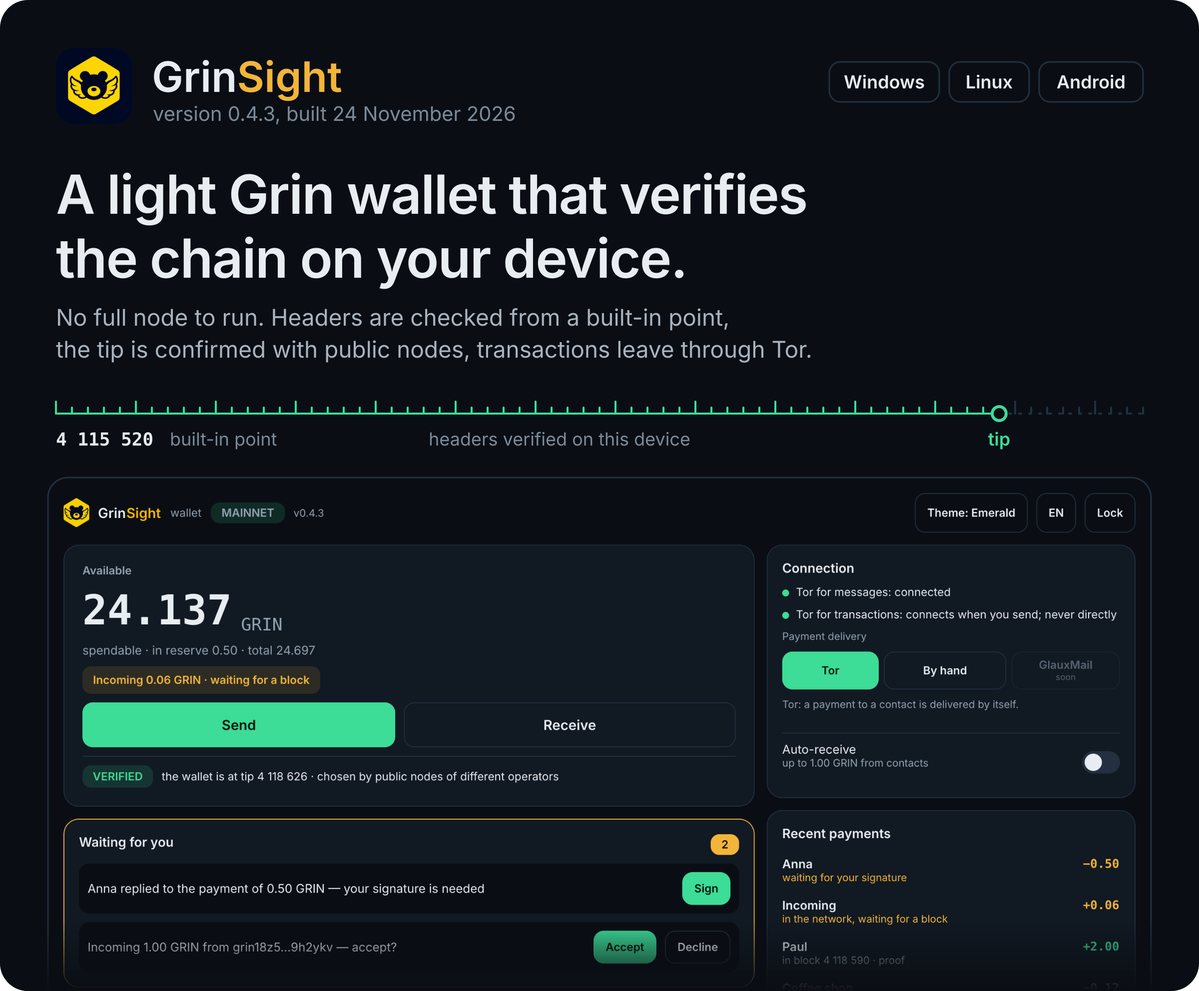
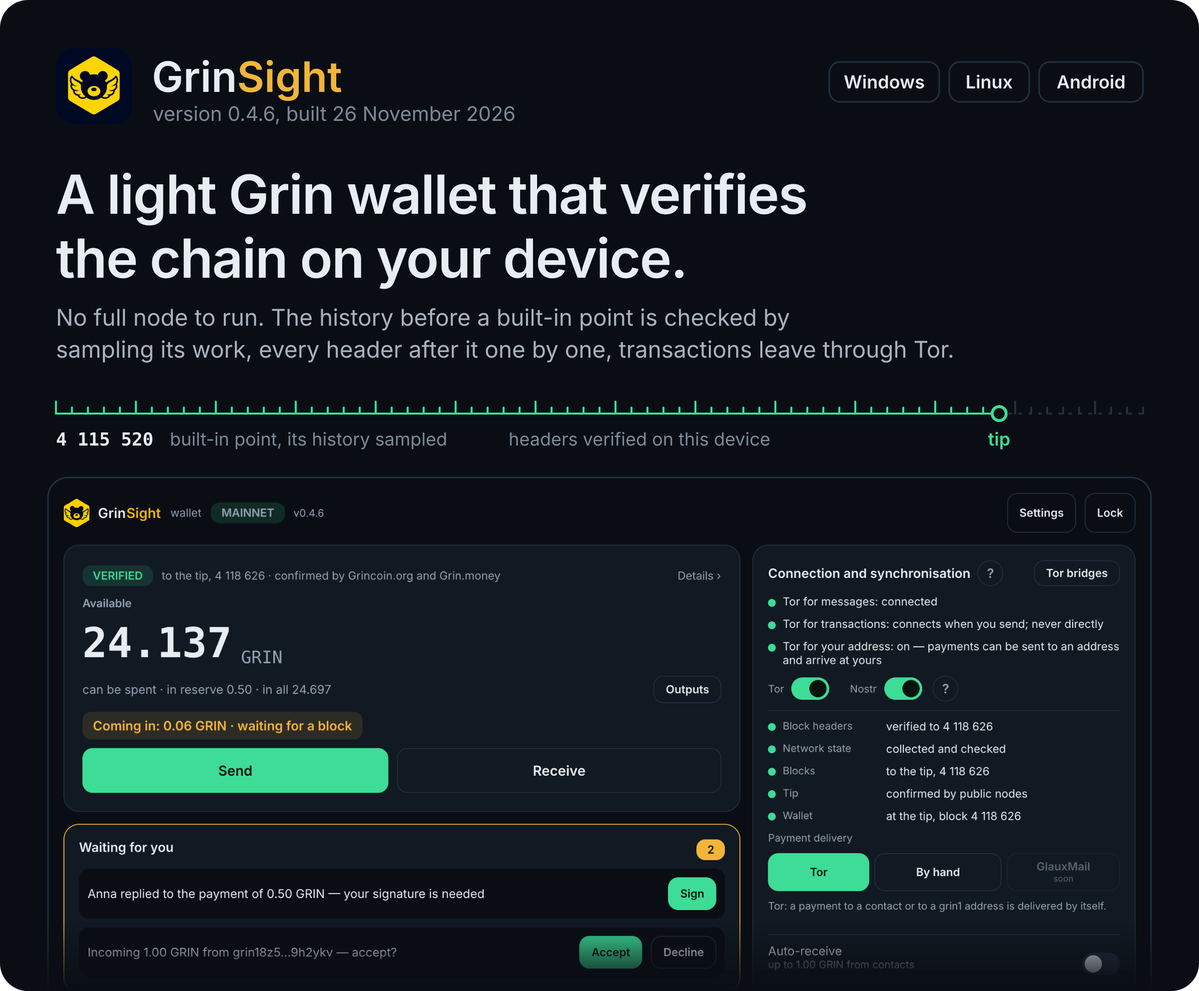
GrinSight 0.4.6: pictures and guides of 0.4.6
The picture at the top of README, the screens, the drawing of the
programs and the picture on the site show the window of 0.4.6. The
guides How it works and Mathematics describe 0.4.6: the history before
the built-in point checked by sampling its work, an own starting point
that keeps that check, outputs, taking a payment back, contacts.

Claude-Session: https://claude.ai/code/session_01P2a4xUSWiGs11LY13tfyYt

diff --git a/site/index.html b/site/index.html
@@ -92,7 +92,7 @@
     <h2>Четыре проверки, прежде чем вы увидите число</h2>
     <p>Если проверка не прошла, кошелёк не показывает баланс вместо неверного.</p>
   </div>
-  <div class="grid4"><div class="step"><div class="n">01</div><h3>Заголовки</h3><p>Каждый заголовок от встроенной точки до вершины проверяется по правилам самой ноды: доказательство работы, сложность, связи. Более тяжёлая ветвь заменяет вершину только при большей суммарной работе.</p></div><div class="step"><div class="n">02</div><h3>Состояние монет</h3><p>Непотраченные выходы собираются из сегментов PIBD на архивной точке нод и сверяются с корнями в проверенном заголовке.</p></div><div class="step"><div class="n">03</div><h3>Каждый блок</h3><p>Блоки от архивной точки до вершины сверяются со своими заголовками, прежде чем их увидит кошелёк.</p></div><div class="step"><div class="n">04</div><h3>Вершина и время</h3><p>Публичные ноды разных операторов отвечают по HTTPS о вершине и времени. Свои выходы кошелёк находит своими ключами; сервер о балансе не спрашивают.</p></div></div>
+  <div class="grid4"><div class="step"><div class="n">01</div><h3>Заголовки</h3><p>История до встроенной точки проверяется выборкой по работе — доказательство едет с программой; каждый заголовок от точки до вершины проверяется по правилам самой ноды: доказательство работы, сложность, связи. Более тяжёлая ветвь заменяет вершину только при большей суммарной работе.</p></div><div class="step"><div class="n">02</div><h3>Состояние монет</h3><p>Непотраченные выходы собираются из сегментов PIBD на архивной точке нод и сверяются с корнями в проверенном заголовке.</p></div><div class="step"><div class="n">03</div><h3>Каждый блок</h3><p>Блоки от архивной точки до вершины сверяются со своими заголовками, прежде чем их увидит кошелёк.</p></div><div class="step"><div class="n">04</div><h3>Вершина и время</h3><p>Публичные ноды разных операторов отвечают по HTTPS о вершине и времени. Свои выходы кошелёк находит своими ключами; сервер о балансе не спрашивают.</p></div></div>
 </section>
 
 <section id="tested" class="wrap">

diff --git a/site/en/index.html b/site/en/index.html
@@ -92,7 +92,7 @@
     <h2>Four checks before you see a number</h2>
     <p>If a check fails, the wallet shows no balance rather than a wrong one.</p>
   </div>
-  <div class="grid4"><div class="step"><div class="n">01</div><h3>Headers</h3><p>Every header from the built-in point to the tip is checked by the node’s own rules: proof of work, difficulty, links. A heavier branch replaces the tip only with more total work.</p></div><div class="step"><div class="n">02</div><h3>Coin state</h3><p>The unspent outputs are collected from PIBD segments at the nodes’ archive point and matched to the roots in a verified header.</p></div><div class="step"><div class="n">03</div><h3>Every block</h3><p>Blocks from the archive point to the tip are checked against their headers before the wallet sees them.</p></div><div class="step"><div class="n">04</div><h3>Tip and time</h3><p>Public nodes of different operators are asked over HTTPS for the tip and the time. Your outputs are found with your own keys; no server is asked for a balance.</p></div></div>
+  <div class="grid4"><div class="step"><div class="n">01</div><h3>Headers</h3><p>The history before the built-in point is checked by sampling its work with a proof shipped in the program; every header from the point to the tip is checked by the node’s own rules: proof of work, difficulty, links. A heavier branch replaces the tip only with more total work.</p></div><div class="step"><div class="n">02</div><h3>Coin state</h3><p>The unspent outputs are collected from PIBD segments at the nodes’ archive point and matched to the roots in a verified header.</p></div><div class="step"><div class="n">03</div><h3>Every block</h3><p>Blocks from the archive point to the tip are checked against their headers before the wallet sees them.</p></div><div class="step"><div class="n">04</div><h3>Tip and time</h3><p>Public nodes of different operators are asked over HTTPS for the tip and the time. Your outputs are found with your own keys; no server is asked for a balance.</p></div></div>
 </section>
 
 <section id="tested" class="wrap">

diff --git a/Documents/MATHEMATICS_RU.md b/Documents/MATHEMATICS_RU.md
@@ -1,6 +1,6 @@
 # Математическое описание GrinSight
 
-GrinSight строит у себя копию той части состояния цепи, которая ему нужна, и сверяет её с обязательствами в заголовках блоков. Текст описывает версию 0.4.3.
+GrinSight строит у себя копию той части состояния цепи, которая ему нужна, и сверяет её с обязательствами в заголовках блоков. Текст описывает версию 0.4.6.
 
 Пусть $H_h$ — заголовок блока на высоте $h$, а $S_h$ — состояние после блока $h$: непотраченные выходы, их range proof и кернелы; по каждому из них в $H_h$ записан корень.
 
@@ -13,6 +13,30 @@ $$
 $$
 
 Эту проверку ничем, вычисленным на устройстве, заменить нельзя. Вместо встроенной точки можно задать свою.
+
+## 1а. История до точки (новое в 0.4.6)
+
+Точка больше не стоит одна: программа несёт доказательство, что за $H_s$ лежит цепь с заявленной работой. Над заголовками $H_0, \ldots, H_{s-1}$ строится дерево сумм работы той же формы, что MMR заголовков: в каждом узле — сумма $\operatorname{work}(H_i)$ под ним, корень $R$ обязуется за всю работу $W$. Зерно берётся из сети, точки, корня и числа проб $m$:
+
+$$
+\sigma = \operatorname{Hash}(\text{сеть},\ \operatorname{hash}(H_s),\ R,\ m)
+$$
+
+Для $j = 1, \ldots, m$ выбирается $x_j = \operatorname{Draw}(\sigma, j) \in [0, W)$ и открывается заголовок $H_{i_j}$, на долю работы которого приходится $x_j$: его путь сумм до $R$, заголовки, которые перед ним читает правило сложности (2 после четвёртого хардфорка, 61 до него), и его доказательство Меркла в MMR заголовков, корень которого записан в $H_s$. При открытии цепи кошелёк проверяет:
+
+$$
+\forall j:\quad \operatorname{Sums}(i_j) \to R,\quad \operatorname{ValidPoW}(H_{i_j}),\quad \operatorname{Difficulty}(H_{i_j}) \text{ следует из его ряда},\quad H_{i_j} \in \operatorname{MMR}(H_s)
+$$
+
+При $m = 420$ это меньше секунды. Если доля $f$ заявленной работы не настоящая, одна честная проба промахнётся мимо неё с вероятностью $1-f$, все — примерно с
+
+$$
+(1-f)^m, \qquad (0{,}98)^{420} \approx 2 \cdot 10^{-4}, \qquad (0{,}95)^{420} \approx 4 \cdot 10^{-10}.
+$$
+
+Это ориентир, а не граница: здесь не учтён подделывающий, который перебирает корни $R$ ради удобного зерна, и цена такого перебора для Grin не посчитана. **420 — запас, а не число, выведенное для названной вероятности ошибки.** Вся история mainnet (4 123 322 заголовка) один раз проверена программой на синхронизированной ноде; само доказательство проверяет только пробы.
+
+Своя точка (делается в «Подробнее») несёт доказательство Меркла встроенной точки под своим корнем. Доказательство встроенной точки тогда остаётся в силе: история до $H_s$ проверена выборкой, а от $H_s$ до вашей точки каждый заголовок проверил ваш кошелёк.
 
 ## 2. Проверка цепи заголовков
 
@@ -91,13 +115,13 @@ $$
 ## Главная связь и границы доверия
 
 $$
-\boxed{\text{стартовая точка} \;\longrightarrow\; \text{проверенные заголовки} \;\longrightarrow\; \text{выбранная вершина} \;\longrightarrow\; \text{проверенное состояние} \;\longrightarrow\; \text{баланс и статус платежа}}
+\boxed{\text{история выборкой} \;\longrightarrow\; \text{стартовая точка} \;\longrightarrow\; \text{проверенные заголовки} \;\longrightarrow\; \text{выбранная вершина} \;\longrightarrow\; \text{проверенное состояние} \;\longrightarrow\; \text{баланс и статус платежа}}
 $$
 
 Что принимается на веру:
 
-- хеш стартовой точки;
+- хеш стартовой точки: его выбирает выпуск; что лежит за ней, проверяется выборкой (раздел 1а), а не заголовок за заголовком;
 - что публичные ноды, которых спрашивают о вершине, не подчинены одной стороне и что сеть позволяет до них дойти;
 - реализация: независимого аудита человеком не было.
 
-Заголовки до стартовой точки не проверяются. Проверка от первого блока в эту версию не входит.
+Заголовки до стартовой точки проверяются выборкой по работе, а не каждый, и число проб — запас, а не выведенная граница. Проверка каждого заголовка от первого блока в эту версию не входит.

diff --git a/Documents/HOW_IT_WORKS_EN.md b/Documents/HOW_IT_WORKS_EN.md
@@ -1,6 +1,6 @@
 # GrinSight — "Revelio for your coins" 🐻
 
-This text describes version 0.4.3.
+This text describes version 0.4.6.
 
 ## What is it?
 
@@ -12,7 +12,7 @@ Five programs start when you open the wallet:
 
 - **the window** — what you see; it holds no keys;
 - **the wallet process** — keeps the keys, signs, writes the journal encrypted with your password;
-- **the chain process** — checks every header from a built-in starting point to the tip, collects the coin state at the nodes' archive point, checks every block after it, asks public nodes of different operators for the tip and the time, and sends transactions through its own Tor;
+- **the chain process** — checks the proof that comes with the program for the history before a built-in starting point (by sampling its work), every header from that point to the tip, collects the coin state at the nodes' archive point, checks every block after it, asks public nodes of different operators for the tip and the time, and sends transactions through its own Tor;
 - **the mailbox** — delivers payments and messages between contacts over Nostr through Tor;
 - **the address process** — announces your `grin1…` address in Tor while the wallet is open, carries payments sent to it and payments you send to another address. It decides nothing: the wallet process does.
 
@@ -28,14 +28,16 @@ If the wallet file is replaced with an older copy of itself, the wallet notices 
 
 1. **Check the download** against `SHA256SUMS.txt`. The files are not signed.
 2. **Create a wallet**, choose a password, write down the 24 words, answer the three words the wallet asks for.
-3. **Wait for "Verified"** under the balance: about 3.5 minutes for a new wallet on mainnet. It is shown only when the wallet is at the tip and can send; before that the mark says "Catching up" or "Searching".
+3. **Wait for "Verified"** above the balance: about 3.5 minutes for a new wallet on mainnet. It is shown only when the wallet is at the tip and can send; before that the mark says "Catching up" or "Searching".
 4. **Receive.** Open *Receive* and copy your address for the sender (or show it as a QR code). A payment sent to it over Tor — from Grim, grin-wallet, Grin++ or GrinSight — arrives by itself and waits for your yes under *Waiting for you*; the sender's wallet waits about 40 seconds. If they send you a Slatepack text instead, paste it there (or take it *From a file*), check the amount and the sender, accept, and send the reply back.
 5. **Send.** Open *Send*, enter the amount and the recipient's `grin1…` address: the payment goes over Tor to the wallet at that address, which must be open, and its reply comes back under *Waiting for you*. Without an address, or with *By hand* chosen: *Make the Slatepack text*, pass it on, paste the reply. Either way the wallet shows what the recipient gets, the fee, the total and the address. Check them and press *Sign and send*.
-6. **Contacts.** Add a contact by their message key; a payment to a contact is delivered over Tor by itself and comes back under *Waiting for you* for your signature. Choose *By hand* on the main screen if you always want to pass the text yourself.
+6. **Contacts.** Add a contact by their message key; a payment to a contact is delivered over Tor by itself and comes back under *Waiting for you* for your signature. Choose *By hand* on the main screen if you always want to pass the text yourself. The contacts stand to the left of the conversation; the chosen one has signs to send GRIN, change the details and delete. Compare the six-word check code with them (the same on both sides) to mark them as checked.
 7. **Pay an invoice.** *Receive* → paste the invoice text → check the amount and the fee → *Sign the payment*.
-8. **Cancel.** Every prepared payment under *Waiting for you* can be cancelled; the money returns from the reserve.
+8. **Cancel or take back.** A prepared payment is cancelled from its line; the money returns from the reserve. A signed payment that is not in a block yet can be taken back: a second transaction of the same inputs to yourself, and one of the two gets into a block.
 9. **Where Tor is blocked.** *Options* on the login screen → *How Tor is reached* → *Bridges*, or *Tor bridges* in the Connection card: the built-in obfs4 and Snowflake bridges of Tor Browser, or your own. With bridges chosen the wallet reaches Tor through them only.
 10. **Restore.** *Restore* on the first screen → the 24 words → a new password. After the wallet reaches the tip, the search for old outputs runs for a few more minutes; the line under the balance says so, and the sum can grow until it ends.
+11. **Outputs.** *Outputs* next to the balance: mark outputs not to be spent, pay with exactly the outputs you choose, collect them into one.
+12. **Your own starting point.** *Details* → *Make my own starting point*: the next unlock starts from it, and it keeps the proof of the built-in point. On another device of yours it is pasted under *Options* → *Own nodes and a point from another device*.
 
 ## Where the wallet is kept
 
@@ -50,4 +52,4 @@ Uninstalling or updating the program does not touch the wallet.
 
 ## Status
 
-A research wallet. Five review rounds by an AI reviewer, no audit by a human. Nothing is signed. Android was run on an emulator only; the macOS image was built and its window scenario run on GitHub's machine, not started on a real Mac. Payments over Tor were exchanged with Grim 0.3.7 on mainnet in both directions; other wallets were not tried. Details: [release notes](RELEASE_NOTES_EN.md), [mathematics and trust boundaries](MATHEMATICS_EN.md).
+A research wallet. Six review rounds by an AI reviewer (0.4.3–0.4.5); what was added in 0.4.6 has not been reviewed; no audit by a human. Nothing is signed. Android was run on an emulator only; the macOS image was built and its window scenario run on GitHub's machine, not started on a real Mac. Payments over Tor were exchanged with Grim 0.3.7 on mainnet in both directions by 0.4.3; other wallets were not tried, and 0.4.6 has not paid on a live network yet. Details: [release notes](RELEASE_NOTES_EN.md), [mathematics and trust boundaries](MATHEMATICS_EN.md).

diff --git a/Documents/MATHEMATICS_EN.md b/Documents/MATHEMATICS_EN.md
@@ -1,6 +1,6 @@
 # Mathematical Explanation of GrinSight
 
-GrinSight builds a local copy of the part of the chain state it needs and verifies it against the commitments in block headers. This text describes version 0.4.3.
+GrinSight builds a local copy of the part of the chain state it needs and verifies it against the commitments in block headers. This text describes version 0.4.6.
 
 Let $H_h$ denote the block header at height $h$, and $S_h$ the state after block $h$: the unspent outputs, their range proofs and the kernels, each committed to by a root in $H_h$.
 
@@ -13,6 +13,30 @@ $$
 $$
 
 This check cannot be replaced by anything computed on the device. You can put a point of your own instead of the built-in one.
+
+## 1a. The History Before the Point (new in 0.4.6)
+
+The point no longer stands alone: the program carries a proof that a chain with the claimed work lies behind $H_s$. Over the headers $H_0, \ldots, H_{s-1}$ a tree of work sums is built in the shape of the header MMR: every node holds the sum of $\operatorname{work}(H_i)$ under it, and its root $R$ commits to the total work $W$. A seed is taken from the network, the point, the root and the number of samples $m$:
+
+$$
+\sigma = \operatorname{Hash}(\text{net},\ \operatorname{hash}(H_s),\ R,\ m)
+$$
+
+For $j = 1, \ldots, m$ a point $x_j = \operatorname{Draw}(\sigma, j) \in [0, W)$ is drawn, and the header $H_{i_j}$ whose share of the work covers $x_j$ is opened: its path of sums up to $R$, the headers the difficulty rule reads before it (2 after the fourth hard fork, 61 before it), and its Merkle proof in the header MMR whose root $H_s$ commits to. The wallet checks, when the chain is opened:
+
+$$
+\forall j:\quad \operatorname{Sums}(i_j) \to R,\quad \operatorname{ValidPoW}(H_{i_j}),\quad \operatorname{Difficulty}(H_{i_j}) \text{ follows from its run},\quad H_{i_j} \in \operatorname{MMR}(H_s)
+$$
+
+With $m = 420$ this takes under a second. If a share $f$ of the claimed work were not real, one honest draw would miss it with probability $1-f$, all of them with about
+
+$$
+(1-f)^m, \qquad (0.98)^{420} \approx 2 \cdot 10^{-4}, \qquad (0.95)^{420} \approx 4 \cdot 10^{-10}.
+$$
+
+This is a guide, not a bound: it does not count a forger who tries many roots $R$ to get a good seed, and the cost of that is not worked out for Grin. **The number 420 is a margin, not derived for a stated error.** The whole history of mainnet (4,123,322 headers) was checked by the program once on a synced node; the proof itself checks samples only.
+
+A point of your own (made in *Details*) carries the Merkle proof of the built-in point under its own root. The proof of the built-in point then still holds: the history up to $H_s$ is sampled, and from $H_s$ to your point your wallet checked every header.
 
 ## 2. Verifying the Header Chain
 
@@ -91,13 +115,13 @@ The wallet's journal can be replaced with an older copy of itself. A small recor
 ## Main Relationship and Trust Boundaries
 
 $$
-\boxed{\text{starting point} \;\longrightarrow\; \text{verified headers} \;\longrightarrow\; \text{selected tip} \;\longrightarrow\; \text{verified state} \;\longrightarrow\; \text{balance and payment status}}
+\boxed{\text{sampled history} \;\longrightarrow\; \text{starting point} \;\longrightarrow\; \text{verified headers} \;\longrightarrow\; \text{selected tip} \;\longrightarrow\; \text{verified state} \;\longrightarrow\; \text{balance and payment status}}
 $$
 
 What is taken on trust:
 
-- the hash of the starting point;
+- the hash of the starting point: the release chooses it; what lies behind it is checked by sampling (section 1a), not header by header;
 - that the public nodes asked about the tip are not all controlled by one party, and that the network lets the wallet reach them;
 - the implementation: there has been no independent audit by a human.
 
-Headers before the starting point are not checked. Verification from the first block is not part of this version.
+Headers before the starting point are checked by sampling their work, not one by one, and the number of samples is a margin, not a derived bound. Checking every header from the first block is not part of this version.

diff --git a/README.ru.md b/README.ru.md
@@ -1,7 +1,7 @@
 <p align="center"><a href="README.md">English</a> · <b>Русский</b> · <a href="https://danilagrinrus.github.io/GrinSight/">Сайт</a></p>
 
 <p align="center">
-  <img src="assets/readme/hero.png" width="100%" alt="GrinSight (на картинке окно версии 0.4.3): лёгкий кошелёк Grin, который проверяет цепь на вашем устройстве. Под заголовком — главное окно с образцовыми значениями: баланс, проверенная вершина, платежи, ждущие подписи.">
+  <img src="assets/readme/hero.png" width="100%" alt="GrinSight 0.4.6: лёгкий кошелёк Grin, который проверяет цепь на вашем устройстве. Под заголовком — главное окно с образцовыми значениями: баланс, проверенная вершина, платежи, ждущие подписи.">
 </p>
 
 GrinSight — исследовательский лёгкий кошелёк для [Grin](https://grin.mw). Своя полная нода ему не нужна: он сам проверяет цепь заголовков от встроенной точки до вершины, сверяет вершину с публичными нодами, собирает и проверяет состояние, от которого зависят его выходы, и отправляет транзакции через собственный Tor. Ничего не подписано, независимого аудита человеком не было; что проверено и что нет — ниже.

diff --git a/README.md b/README.md
@@ -1,7 +1,7 @@
 <p align="center"><b>English</b> · <a href="README.ru.md">Русский</a> · <a href="https://danilagrinrus.github.io/GrinSight/en/">Website</a></p>
 
 <p align="center">
-  <img src="assets/readme/hero.png" width="100%" alt="GrinSight (the picture shows the window of 0.4.3): a light Grin wallet that verifies the chain on your device. Below the title, the main window with sample values: balance, a verified tip, payments waiting for a signature.">
+  <img src="assets/readme/hero.png" width="100%" alt="GrinSight 0.4.6: a light Grin wallet that verifies the chain on your device. Below the title, the main window with sample values: balance, a verified tip, payments waiting for a signature.">
 </p>
 
 GrinSight is a research light wallet for [Grin](https://grin.mw). It needs no full node of its own: it checks the header chain from a built-in point to the tip, confirms the tip with public nodes, collects and verifies the state its outputs depend on, and sends transactions through its own Tor. Nothing is signed and there has been no independent audit by a human; what was and was not checked is listed below.
